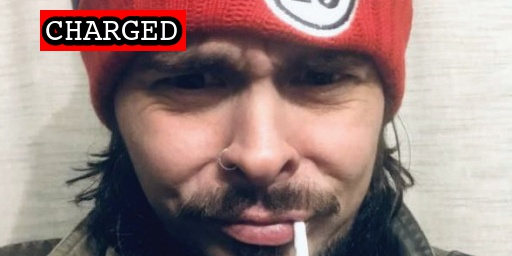
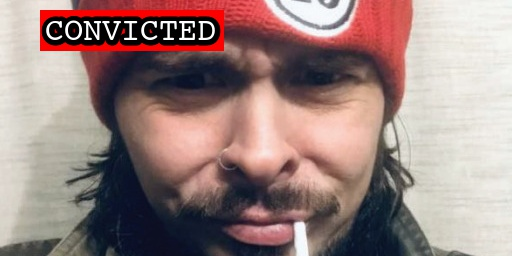
New sentences

Changed region(s): [[0.125, 0.0312, 0.4375, 0.2188]]

diff --git a/docs/_suspects/william-reid.md b/docs/_suspects/william-reid.md
@@ -4,13 +4,13 @@ lastName: Reid
 hashtag: WilliamRoganReid
 aka: blumpkinvice
 residence: Florida
-status: Convicted
+status: Sentenced
 date: 2021-03-26
 charged: 2021-03-26
 indicted: 2021-04-23
 convicted: 2022-08-23
 acquitted:
-sentenced:
+sentenced: 2022-12-07
 dismissed:
 deceased:
 plea_hearing: 2022-08-23
@@ -41,29 +41,34 @@ caseName: USA v. REID
 judge: Dabney L. Friedrich
 videos:
 charges:
-- code: 18 USC § 1752(a)(1)
-  title: Entering a restricted building or grounds
-  url: https://www.law.cornell.edu/uscode/text/18/1752
-  felony: false
-- code: 18 USC § 1752(a)(2)
-  title: Disorderly and disruptive conduct in a restricted building or grounds
-  url: https://www.law.cornell.edu/uscode/text/18/1752
-  felony: false
-- code: 40 USC § 5104(e)(2)(D)
-  title: Disorderly Conduct in a Capitol Building
-  url: https://www.law.cornell.edu/uscode/text/40/5104
-  felony: false
-- code: 40 USC § 5104(e)(2)(G)
-  title: Parading, demonstrating or picketing in a Capitol building
-  url: https://www.law.cornell.edu/uscode/text/40/5104
-  felony: false
-- code: 18 USC § 1512(c)(1)
-  title: Corruptly Altering, Destroying, Mutilating, or Concealing a Record, Document or Other Object
-  url: https://www.law.cornell.edu/uscode/text/18/1512
-  felony: true
+  - code: 18 USC § 1752(a)(1)
+    title: Entering a restricted building or grounds
+    url: https://www.law.cornell.edu/uscode/text/18/1752
+    felony: false
+  - code: 18 USC § 1752(a)(2)
+    title: Disorderly and disruptive conduct in a restricted building or grounds
+    url: https://www.law.cornell.edu/uscode/text/18/1752
+    felony: false
+  - code: 40 USC § 5104(e)(2)(D)
+    title: Disorderly Conduct in a Capitol Building
+    url: https://www.law.cornell.edu/uscode/text/40/5104
+    felony: false
+  - code: 40 USC § 5104(e)(2)(G)
+    title: Parading, demonstrating or picketing in a Capitol building
+    url: https://www.law.cornell.edu/uscode/text/40/5104
+    felony: false
+  - code: 18 USC § 1512(c)(1)
+    title: Corruptly Altering, Destroying, Mutilating, or Concealing a Record, Document or Other Object
+    url: https://www.law.cornell.edu/uscode/text/18/1512
+    felony: true
 sentence:
+  - 37 months incarceration
+  - 3 years probation
+  - $2443 restitution
 ---
+
 - [News Report](https://www.nbcmiami.com/news/local/davie-man-arrested-in-capitol-riot-faces-cyberstalking-charge-in-south-florida/2420522/)
 - [Statement of Facts](https://www.justice.gov/usao-dc/case-multi-defendant/file/1528316/download)
 - [Indictment](https://www.justice.gov/usao-dc/case-multi-defendant/file/1392276/download)
 - [DOJ Statement (Conviction)](https://www.justice.gov/usao-dc/pr/new-york-man-found-guilty-felony-charge-actions-during-jan-6-capitol-breach)
+- [Sentencing Memo](https://storage.courtlistener.com/recap/gov.uscourts.dcd.230507/gov.uscourts.dcd.230507.35.0.pdf)

diff --git a/docs/_suspects/devin-steiner.md b/docs/_suspects/devin-steiner.md
@@ -4,11 +4,11 @@ lastName: Steiner
 hashtag:
 aka:
 residence: Ohio
-status: Charged
+status: Convicted
 date: 2022-05-26
 charged: 2022-05-26
 indicted:
-convicted:
+convicted: 2022-12-07
 acquitted:
 sentenced:
 dismissed:
@@ -32,7 +32,7 @@ raid:
 perpwalk:
 quote:
 title: Devin Steiner charged on 5/26/2022
-description: Click for latest case details. Suspects innocent until proven guilty.
+description: Convicted on December 7, 2022. Click for latest case details.
 author: seditiontrack
 layout: suspect
 published: true
@@ -41,8 +41,14 @@ caseName: USA v. STEINER
 judge: Royce C. Lamberth
 videos:
 charges:
+- code: 40 USC § 5104(e)(2)(G)
+  title: Parading, demonstrating or picketing in a Capitol building
+  url: https://www.law.cornell.edu/uscode/text/40/5104
+  felony: false
 sentence:
 ---
 - [News Report](https://www.beaconjournal.com/story/news/2022/05/26/devin-steiner-wooster-ohio-charged-breaching-us-capitol-jan-6-2021-insurrection/9941693002/)
 - [Statement of Facts](https://www.justice.gov/usao-dc/case-multi-defendant/file/1509941/download)
 - [Information](https://www.justice.gov/usao-dc/case-multi-defendant/file/1509916/download)
+- [Plea Agreement](https://storage.courtlistener.com/recap/gov.uscourts.dcd.243840/gov.uscourts.dcd.243840.31.0.pdf)
+- [Statement of Offense](https://storage.courtlistener.com/recap/gov.uscourts.dcd.243840/gov.uscourts.dcd.243840.32.0.pdf)

diff --git a/docs/_suspects/steven-billingsley.md b/docs/_suspects/steven-billingsley.md
@@ -4,13 +4,13 @@ lastName: Billingsley
 hashtag: StevenBillingsley
 aka:
 residence: Ohio
-status: Convicted
+status: Sentenced
 date: 2021-08-12
 charged: 2021-08-12
 indicted:
 convicted: 2022-08-15
 acquitted:
-sentenced:
+sentenced: 2022-12-06
 dismissed:
 deceased:
 plea_hearing: 2022-08-15
@@ -41,12 +41,15 @@ caseName: USA v. BILLINGSLEY
 judge: Thomas F. Hogan
 videos:
 charges:
-- code: 18 USC § 1752(a)(2)
-  title: Disorderly and disruptive conduct in a restricted building or grounds
-  url: https://www.law.cornell.edu/uscode/text/18/1752
-  felony: false
+  - code: 18 USC § 1752(a)(2)
+    title: Disorderly and disruptive conduct in a restricted building or grounds
+    url: https://www.law.cornell.edu/uscode/text/18/1752
+    felony: false
 sentence:
+  - 2 years probation
+  - $500 restitution
 ---
+
 - [News Report](https://www.wtrf.com/jefferson-county/jefferson-county-man-charged-with-crimes-related-to-the-jan-6-capitol-riot/)
 - [Statement of Facts](https://www.justice.gov/usao-dc/case-multi-defendant/file/1457636/download)
 - [Information](https://www.justice.gov/usao-dc/case-multi-defendant/file/1526451/download)

diff --git a/docs/_suspects/lewis-cantwell.md b/docs/_suspects/lewis-cantwell.md
@@ -17,7 +17,7 @@ plea_hearing: 2022-03-24
 trial_date:
 trial_type:
 jury_selection:
-sentencing: 2022-12-06
+sentencing:
 status_conference:
 age: 35
 occupation:
@@ -41,12 +41,13 @@ caseName: USA v. CANTWELL
 judge: Colleen Kollar-Kotelly
 videos:
 charges:
-- code: 18 USC § 231(a)(3)
-  title: Obstruction of Law Enforcement During Civil Disorder
-  url: https://www.law.cornell.edu/uscode/text/18/231
-  felony: true
+  - code: 18 USC § 231(a)(3)
+    title: Obstruction of Law Enforcement During Civil Disorder
+    url: https://www.law.cornell.edu/uscode/text/18/231
+    felony: true
 sentence:
 ---
+
 - [News Report](https://www.smokymountainnews.com/news/item/30846-sylva-man-arrested-in-connection-with-capitol-riots)
 - [Complaint](https://extremism.gwu.edu/sites/g/files/zaxdzs2191/f/Lewis%20Easton%20Cantwell%20Indictment.pdf)
 - [Indictment](https://www.justice.gov/usao-dc/case-multi-defendant/file/1378511/download)
